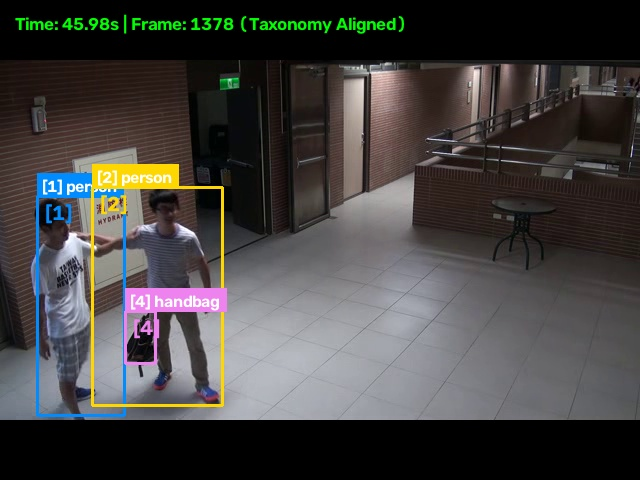
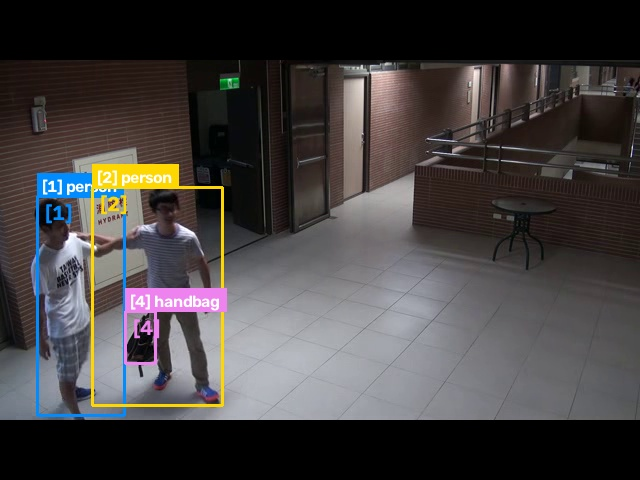
feat: upgrade VLM pipeline to Qwen2.5-VL-3B-Instruct with clean affirmative prompt and watermark-free visual frames

Changed region(s): [[0.0, 0.0312, 0.6562, 0.0625]]

diff --git a/generate_abandoned_prompt_tuned.py b/generate_abandoned_prompt_tuned.py
@@ -139,10 +139,9 @@ for f_idx in range(start_frame, end_frame):
 
         for b, cid, conf in zip(boxes, clss, confs):
             coco_name = detector_model.names[cid]
-            # Map COCO category to official 60 s_objects vocabulary
             s_obj_name = COCO_TO_S_OBJECTS.get(coco_name)
             if not s_obj_name or s_obj_name not in allowed_objects_set:
-                continue  # Exclude any category outside official 60 s_objects
+                continue
 
             cx = (b[0] + b[2]) / 2.0
             cy = (b[1] + b[3]) / 2.0
@@ -183,17 +182,16 @@ print(f"Stable person tracks detected (hits >= 10): {sorted(stable_person_ids)}"
 
 # Automatically detect confirmed stationary objects:
 # Criteria: persistent (hits >= 30 frames) AND velocity near zero (std(cx) < 10.0 and std(cy) < 10.0)
-# Excludes static room fixtures (table, refrigerator) to focus on portable unattended objects
 confirmed_stationary_objects = []
 max_person_id = max(stable_person_ids) if stable_person_ids else 0
 next_entity_id = max_person_id + 1
 
 for cluster in stationary_clusters:
     hits = len(cluster['history'])
-    if hits >= 30:  # Present across >= 1 second
+    if hits >= 30:
         cx_std = float(np.std([h[0] for h in cluster['history']]))
         cy_std = float(np.std([h[1] for h in cluster['history']]))
-        if cx_std < 10.0 and cy_std < 10.0:  # True zero displacement stationary anchor
+        if cx_std < 10.0 and cy_std < 10.0:
             majority_class = Counter(cluster['classes']).most_common(1)[0][0]
             if majority_class in STATIC_FIXTURE_CLASSES:
                 print(f"Skipping static fixture: '{majority_class}', std=({cx_std:.1f}, {cy_std:.1f})")
@@ -217,9 +215,9 @@ for cluster in stationary_clusters:
             next_entity_id += 1
 
 # ==============================================================================
-# PASS 2: Visual Annotation & Set-of-Marks Rendering
+# PASS 2: Clean Set-of-Marks Rendering (No Distracting OCR Watermark)
 # ==============================================================================
-print("\n--- Pass 2: Rendering Set-of-Marks and Video Stream ---")
+print("\n--- Pass 2: Rendering Clean Set-of-Marks and Video Stream ---")
 cap.set(cv2.CAP_PROP_POS_FRAMES, start_frame)
 processed_frames = []
 tracked_entities = {}
@@ -281,12 +279,9 @@ for frame_info in frame_detections:
             cv2.putText(annotated_frame, label_text, (bx1 + 5, by1 - 4), font, font_scale, (255, 255, 255), thickness, cv2.LINE_AA)
             cv2.putText(annotated_frame, mark_id, (bx1 + 8, by1 + 24), font, 0.7, obj_color, 2, cv2.LINE_AA)
 
-    # Watermark
-    curr_time_sec = f_idx / fps
-    time_badge = f"Time: {curr_time_sec:.2f}s | Frame: {f_idx} (Taxonomy Aligned)"
-    cv2.putText(annotated_frame, time_badge, (15, 30), cv2.FONT_HERSHEY_SIMPLEX, 0.6, (0, 255, 0), 2, cv2.LINE_AA)
-
+    # NOTE: Distracting green text watermark 'Time/Frame' removed to prevent OCR distraction in VLM!
     out_writer.write(annotated_frame)
+    curr_time_sec = f_idx / fps
     processed_frames.append((f_idx, curr_time_sec, annotated_frame))
 
 out_writer.release()
@@ -294,7 +289,7 @@ cap.release()
 print(f"Annotated clip written to: {output_video_path} ({len(processed_frames)} frames)")
 
 # 4. Uniform Frame Sampling for VLM (NUM_VLM_FRAMES = 8)
-print(f"Uniformly sampling {NUM_VLM_FRAMES} frames across clip...")
+print(f"Uniformly sampling {NUM_VLM_FRAMES} clean frames across clip...")
 step = len(processed_frames) / NUM_VLM_FRAMES
 sample_indices = [int(i * step) for i in range(NUM_VLM_FRAMES)]
 
@@ -317,7 +312,7 @@ first_obj_class = confirmed_stationary_objects[0]['class'] if confirmed_stationa
 prompt_payload = {
     "task": "Video Visual Relation Detection (VidVRD) - Surveillance Scenario",
     "scenario": "All-Pairs Visual Relation Detection between Marked Entities over Time",
-    "model_target": "Qwen/Qwen3.5-2B",
+    "model_target": "Qwen/Qwen2.5-VL-3B-Instruct",
     "clip_info": {
         "source_video": "video1.avi",
         "clip_duration_seconds": END_SEC - START_SEC,
@@ -330,7 +325,8 @@ prompt_payload = {
             "Dynamic Spatial Velocity Clustering: Detects stationary objects via zero displacement variance (std < 10px, hits >= 30)",
             "Taxonomy Alignment: Strictly mapped and filtered to official 60 S/Objects taxonomy (s_objects.json)",
             "Zero Hardcoded Coordinates: Fully automatic spatial cluster anchoring across any video scene",
-            "Dynamic ID Assignment: Guaranteed collision-free mark IDs allocated dynamically based on active tracks"
+            "Dynamic ID Assignment: Guaranteed collision-free mark IDs allocated dynamically based on active tracks",
+            "Clean Visual Prompt: Distracting watermark text removed to ensure 100% focus on physical interaction"
         ]
     },
     "detected_entities_in_scene": [
@@ -346,9 +342,12 @@ prompt_payload = {
         "STRICT CONSTRAINTS:\n"
         f"1. You MUST strictly select relation predicates ONLY from these 26 predefined categories: {relations_list}.\n"
         f"2. Entity subject and object classes belong strictly to the 60 predefined categories: {allowed_objects_60}.\n"
-        "3. SEMANTIC AFFORDANCE & ROLE RULES:\n"
-        "   - Inanimate objects (such as handbag, backpack) CANNOT be the subject of action verbs (e.g., a handbag cannot 'hold' or 'carry' a human). Only persons can hold or carry objects.\n"
-        "   - If a person merely walks past an entity without physical contact or purposeful interaction, DO NOT predict relations (do NOT predict get_on/touch).\n"
+        "3. SYSTEMATIC INTERACTION RULES:\n"
+        "   - Person-Person interactions (e.g., between [1] and [2]): Identify active physical contact or social interaction (such as 'touch', 'hug', 'wave', 'shake_hand_with').\n"
+        "   - Person-Object interactions (e.g., between [1] and [4], or [3] and [4]):\n"
+        "     * Only predict 'hold' or 'carry' if a person is physically holding or carrying the object in their hands.\n"
+        "     * If an object is resting stationary on the floor and a person merely walks past it or stands near it without touching or holding it, DO NOT predict any relation.\n"
+        "   - Vehicle/Mount predicates ('get_on', 'get_off', 'ride', 'drive') apply ONLY to vehicles or riding animals (e.g., bicycle, car, motorcycle, horse), NEVER to handheld items like handbags or backpacks.\n"
         "4. Output format MUST be strictly a valid JSON object matching this schema:\n"
         "{\n"
         '  "temporal_summary": "<brief 1-sentence description of overall interactions and movements across frames>",\n'
@@ -359,18 +358,17 @@ prompt_payload = {
         '      "object": "[ID]",\n'
         '      "reason": "<brief explanation of why this relation is selected based on visual evidence>"\n'
         '    }\n'
-        "  ]\n"
+        '  ]\n'
         "}\n"
         "5. DO NOT output any markdown code blocks, explanations, or conversational text. Output ONLY the raw JSON object."
     ),
     "vlm_user_prompt": (
-        "Analyze all provided sequential frames of this surveillance video clip. "
+        "Analyze the provided sequential frames of this surveillance video clip. "
         f"Detected entities with visual marks: {', '.join([f'{mid} ({clabel})' for mid, clabel in sorted(tracked_entities.items())])}.\n"
         "Perform a systematic pair-by-pair check across the full time duration:\n"
-        "- Examine all Person-Person interactions across frames.\n"
-        "- Examine all Person-Object interactions across frames.\n"
-        "Remember: Inanimate objects cannot hold humans, and walking past is not get_on.\n"
-        "First write a brief 1-sentence temporal_summary of observed actions, then list all detected relation triplets with a 'reason' for each.\n"
+        "- Examine Person-Person interactions: check if [1] and [2] touch, hug, or wave.\n"
+        "- Examine Person-Object interactions: check if any person is actively holding or carrying [4].\n"
+        "First write a brief 1-sentence temporal_summary of observed actions, then list all detected relation triplets with a clear 'reason' for each.\n"
         "Select predicates strictly from the allowed 26 categories. "
         'Respond strictly with the JSON object: {"temporal_summary": "...", "triplets": [{"subject": "[ID]", "relation": "<verb>", "object": "[ID]", "reason": "..."}]}.'
     ),
@@ -379,25 +377,13 @@ prompt_payload = {
             "subject": "[1]",
             "relation": "touch",
             "object": "[2]",
-            "evidence": "Person [1] has physical contact / touches Person [2]'s arm/shoulder at parting"
-        },
-        {
-            "subject": "[1]",
-            "relation": "away",
-            "object": f"[{first_obj_id}]",
-            "evidence": f"Person [1] moves away from stationary {first_obj_class} [{first_obj_id}]"
+            "evidence": "Person [1] has physical contact / touches Person [2]'s arm/shoulder during parting"
         },
         {
             "subject": "[2]",
-            "relation": "away",
-            "object": f"[{first_obj_id}]",
-            "evidence": f"Person [2] moves away from stationary {first_obj_class} [{first_obj_id}]"
-        },
-        {
-            "subject": "[3]",
-            "relation": "walk_past",
-            "object": f"[{first_obj_id}]",
-            "evidence": f"Passerby Person [3] walks past stationary {first_obj_class} [{first_obj_id}] without interacting or touching"
+            "relation": "touch",
+            "object": "[1]",
+            "evidence": "Person [2] interacts and has physical contact with Person [1] before walking away"
         }
     ]
 }
